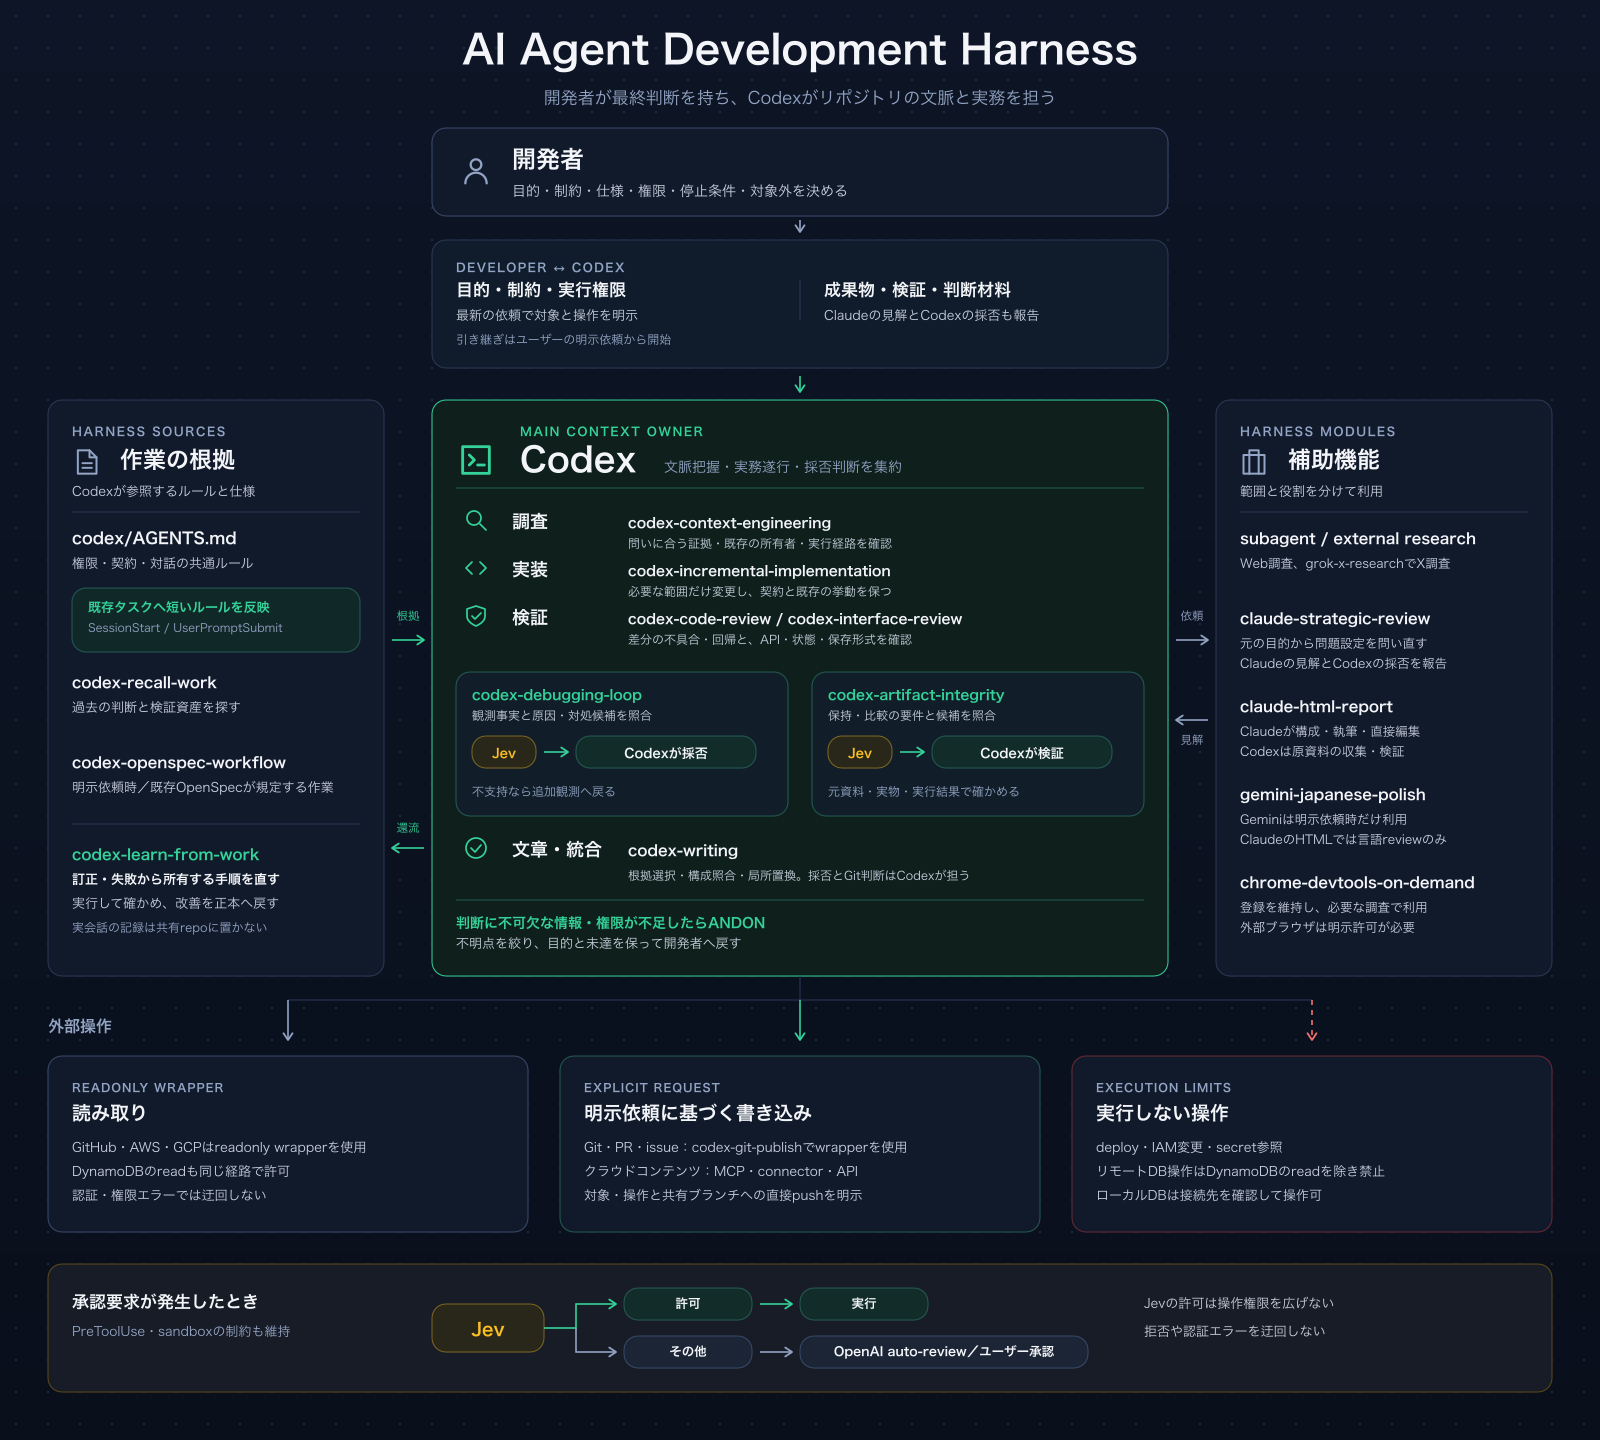
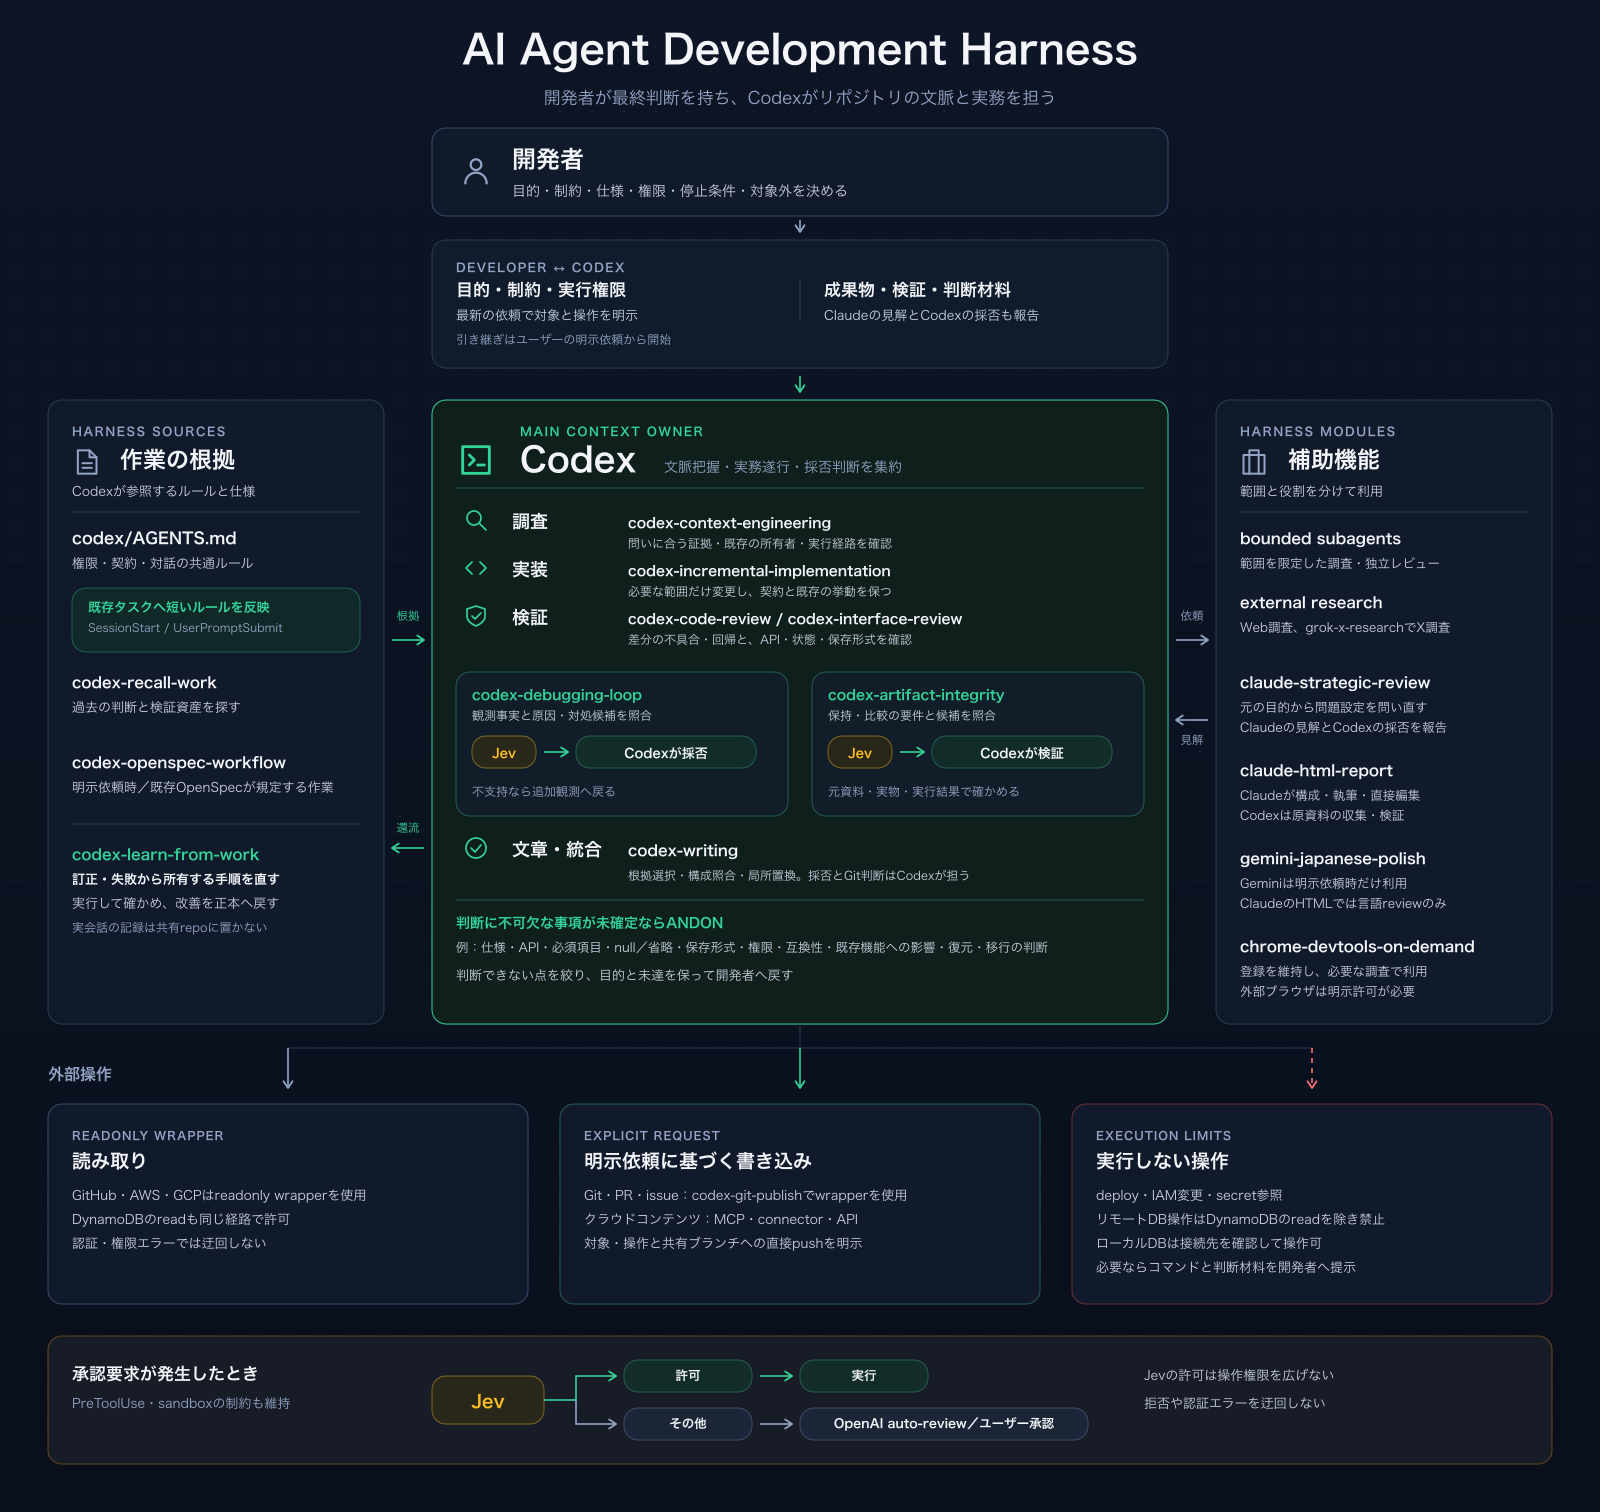
Fix fenced review responses and clarify harness diagram

diff --git a/tests/test_jev_artifact_review.py b/tests/test_jev_artifact_review.py
@@ -41,6 +41,7 @@ class JevArtifactReviewTests(unittest.TestCase):
         original_request=None,
         review_response=None,
         review_exit=0,
+        review_text=None,
     ):
         with tempfile.TemporaryDirectory() as directory:
             root = Path(directory)
@@ -82,7 +83,7 @@ class JevArtifactReviewTests(unittest.TestCase):
                 "JEV_TEST_RESPONSE": json.dumps(response),
                 "ARTIFACT_REVIEW_CLAUDE": str(reviewer),
                 "REVIEW_TEST_CAPTURE": str(review_capture),
-                "REVIEW_TEST_RESPONSE": json.dumps(review_response or {"findings": []}),
+                "REVIEW_TEST_RESPONSE": review_text if review_text is not None else json.dumps(review_response or {"findings": []}),
                 "REVIEW_TEST_EXIT": str(review_exit),
             })
             result = subprocess.run(
@@ -276,6 +277,61 @@ class JevArtifactReviewTests(unittest.TestCase):
         )
         self.assertEqual(result.returncode, 0)
         self.assertEqual(captured["review_calls"], 0)
+
+    def test_complete_json_code_block_preserves_findings_and_review_decision(self):
+        finding = {"source": "request", "requirement": "Keep the form usable.",
+                   "evidence": "blocking dialog", "reason": "The dialog prevents form interaction."}
+        for language, findings in [("json", [finding]), ("", [])]:
+            with self.subTest(language=language):
+                result, captured = self.run_review(
+                    self.response(0.95), original_request="Keep the form usable.",
+                    candidate="blocking dialog", review_text="  ```" + language + "\n"
+                    + json.dumps({"findings": findings}) + "\n```\n",
+                )
+                output = json.loads(result.stdout)
+                self.assertEqual(result.returncode, 1)
+                self.assertEqual(output["decision"], "review")
+                self.assertEqual(output["concrete_review"], {"status": "completed", "findings": findings})
+                self.assertEqual(captured["review_calls"], 1)
+
+    def test_incomplete_json_extra_prose_and_multiple_payloads_are_not_repaired(self):
+        payload = '{"findings": []}'
+        responses = [
+            '```json\n{"findings": [}\n```',
+            '```json\n' + payload,
+            'Explanation\n```json\n' + payload + '\n```',
+            '```json\n' + payload + '\n```\nExplanation',
+            '```json\n' + payload + '\n```\n```json\n' + payload + '\n```',
+            payload + '\n' + payload,
+            '```python\n' + payload + '\n```',
+        ]
+        for response in responses:
+            with self.subTest(response=response):
+                result, captured = self.run_review(
+                    self.response(0.95), original_request="Keep the form usable.", review_text=response,
+                )
+                output = json.loads(result.stdout)
+                self.assertEqual(result.returncode, 1)
+                self.assertEqual(output["decision"], "review")
+                self.assertEqual(output["concrete_review"]["status"], "unavailable")
+                self.assertNotIn("findings", output["concrete_review"])
+                self.assertEqual(captured["review_calls"], 1)
+
+    def test_fenced_response_still_requires_valid_schema_and_grounded_quotes(self):
+        for response in [
+            {"findings": "none"},
+            {"findings": [{"source": "request", "requirement": "Not requested.",
+                           "evidence": "blocking dialog", "reason": "Unsupported."}]},
+            {"findings": [{"source": "request", "requirement": "Keep the form usable.",
+                           "evidence": "not in candidate", "reason": "Unsupported."}]},
+        ]:
+            with self.subTest(response=response):
+                result, captured = self.run_review(
+                    self.response(0.95), original_request="Keep the form usable.",
+                    candidate="blocking dialog", review_text='```json\n' + json.dumps(response) + '\n```',
+                )
+                self.assertEqual(json.loads(result.stdout)["concrete_review"]["status"], "unavailable")
+                self.assertEqual(captured["review_calls"], 1)
 
     def test_ungrounded_findings_do_not_become_verified_defects(self):
         result, captured = self.run_review(
